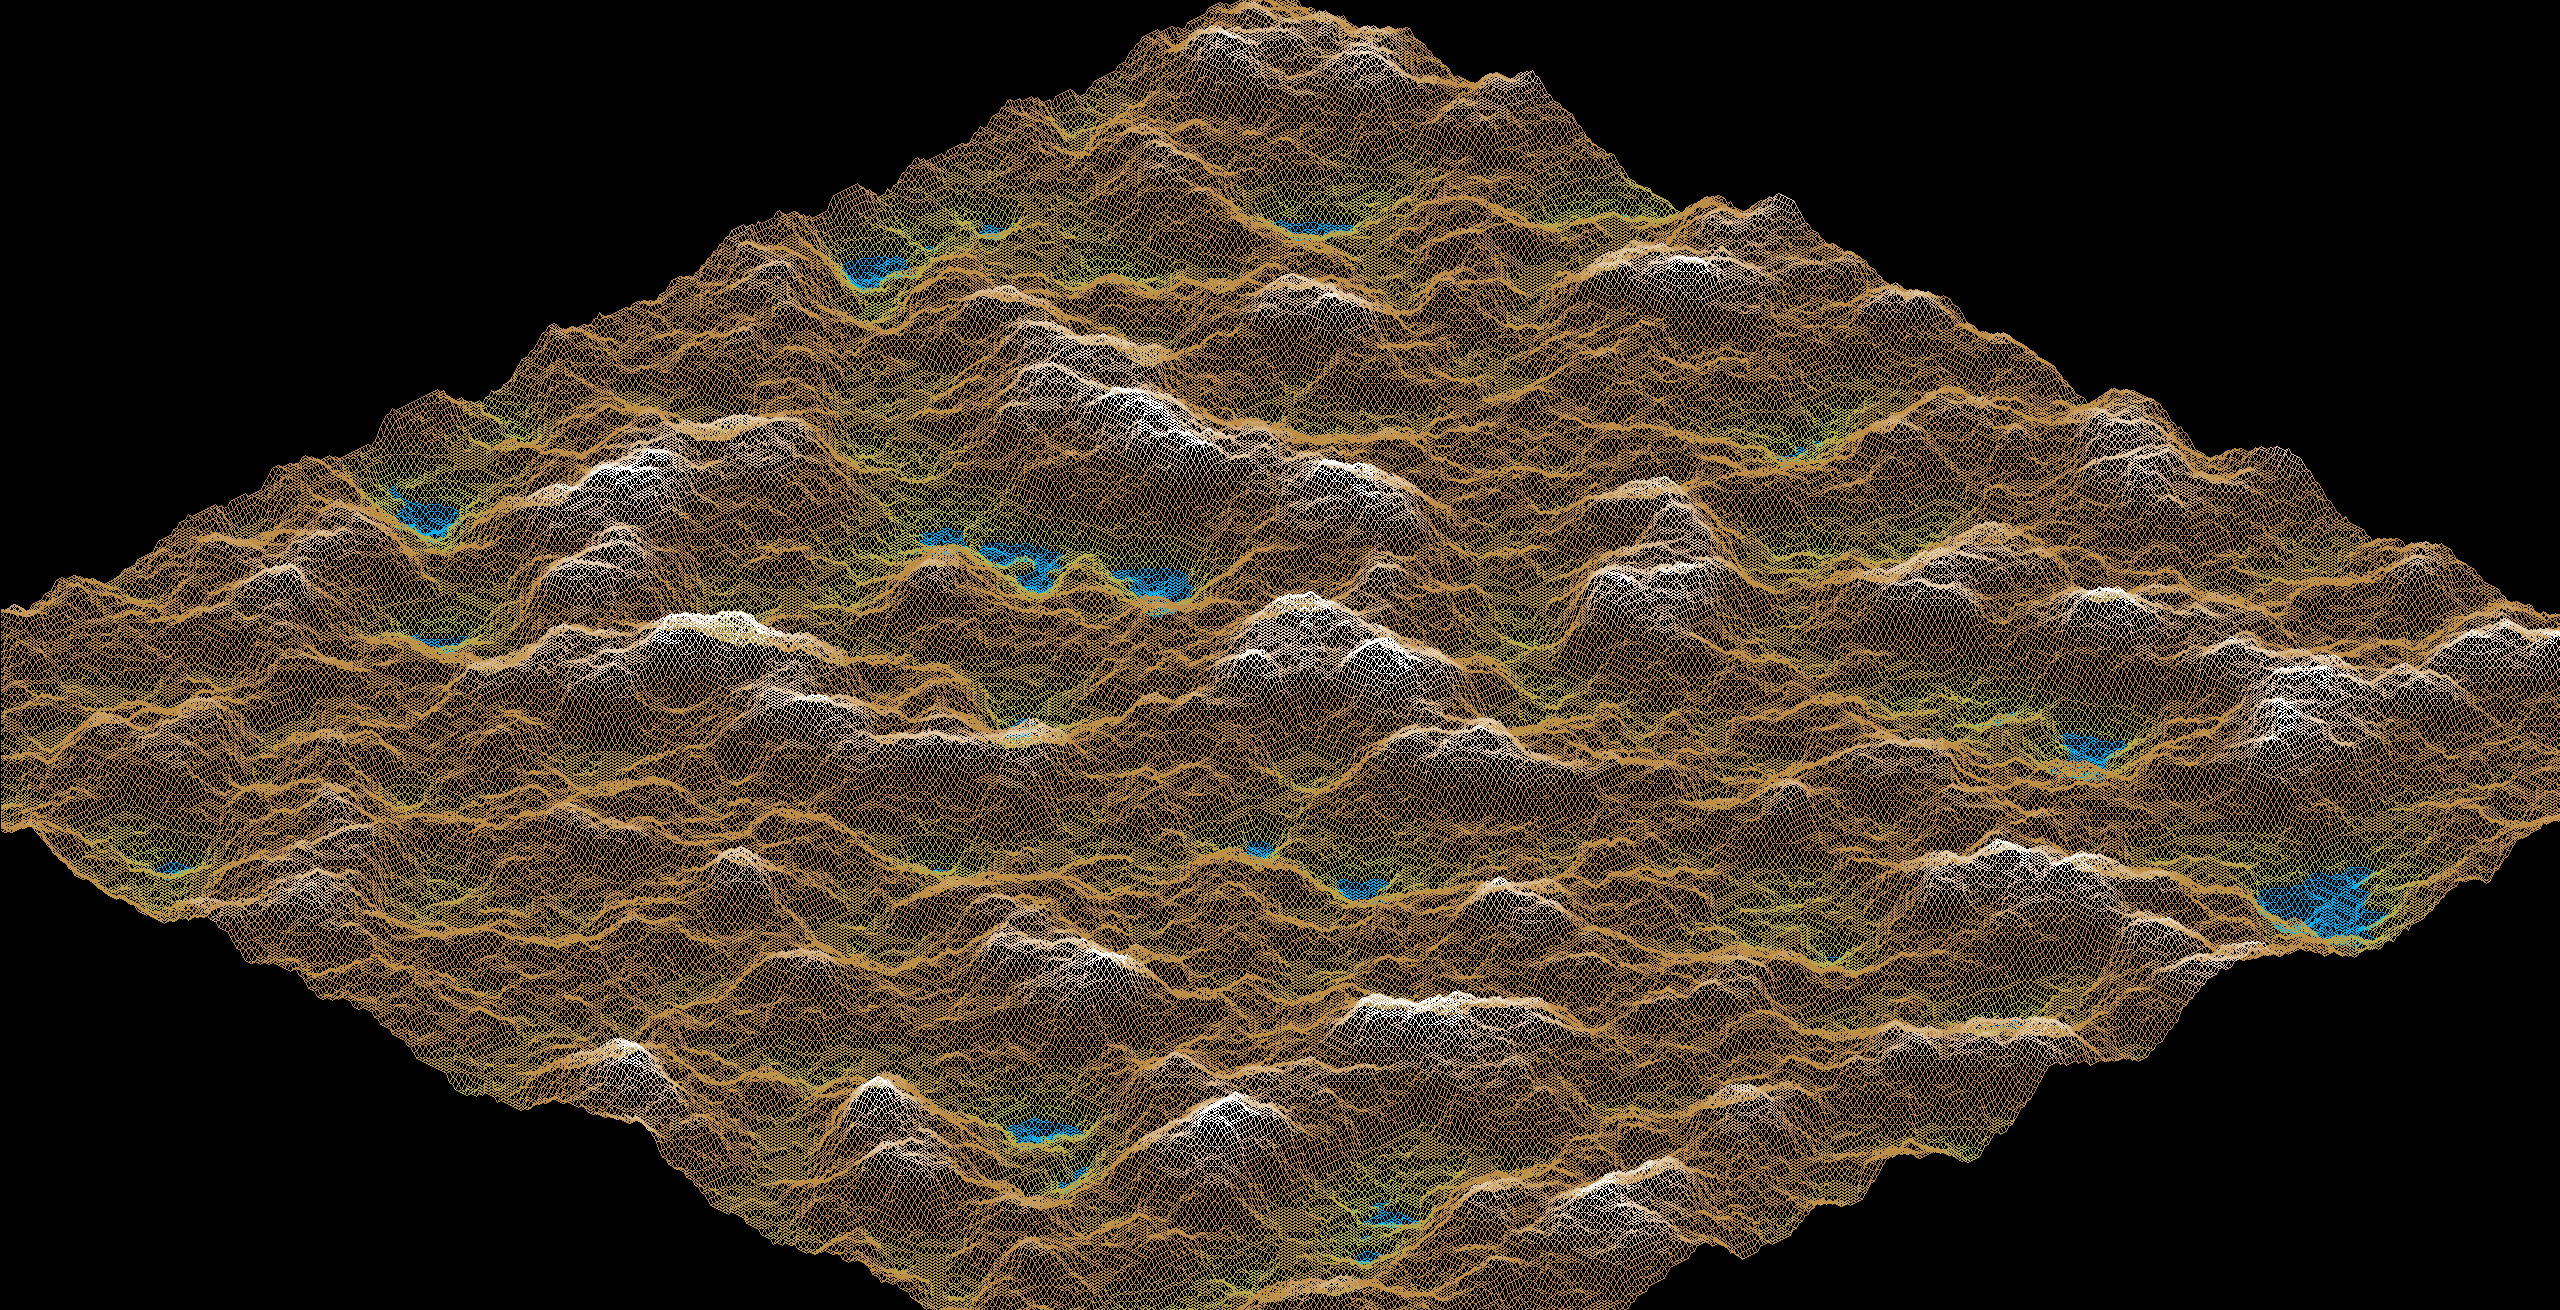
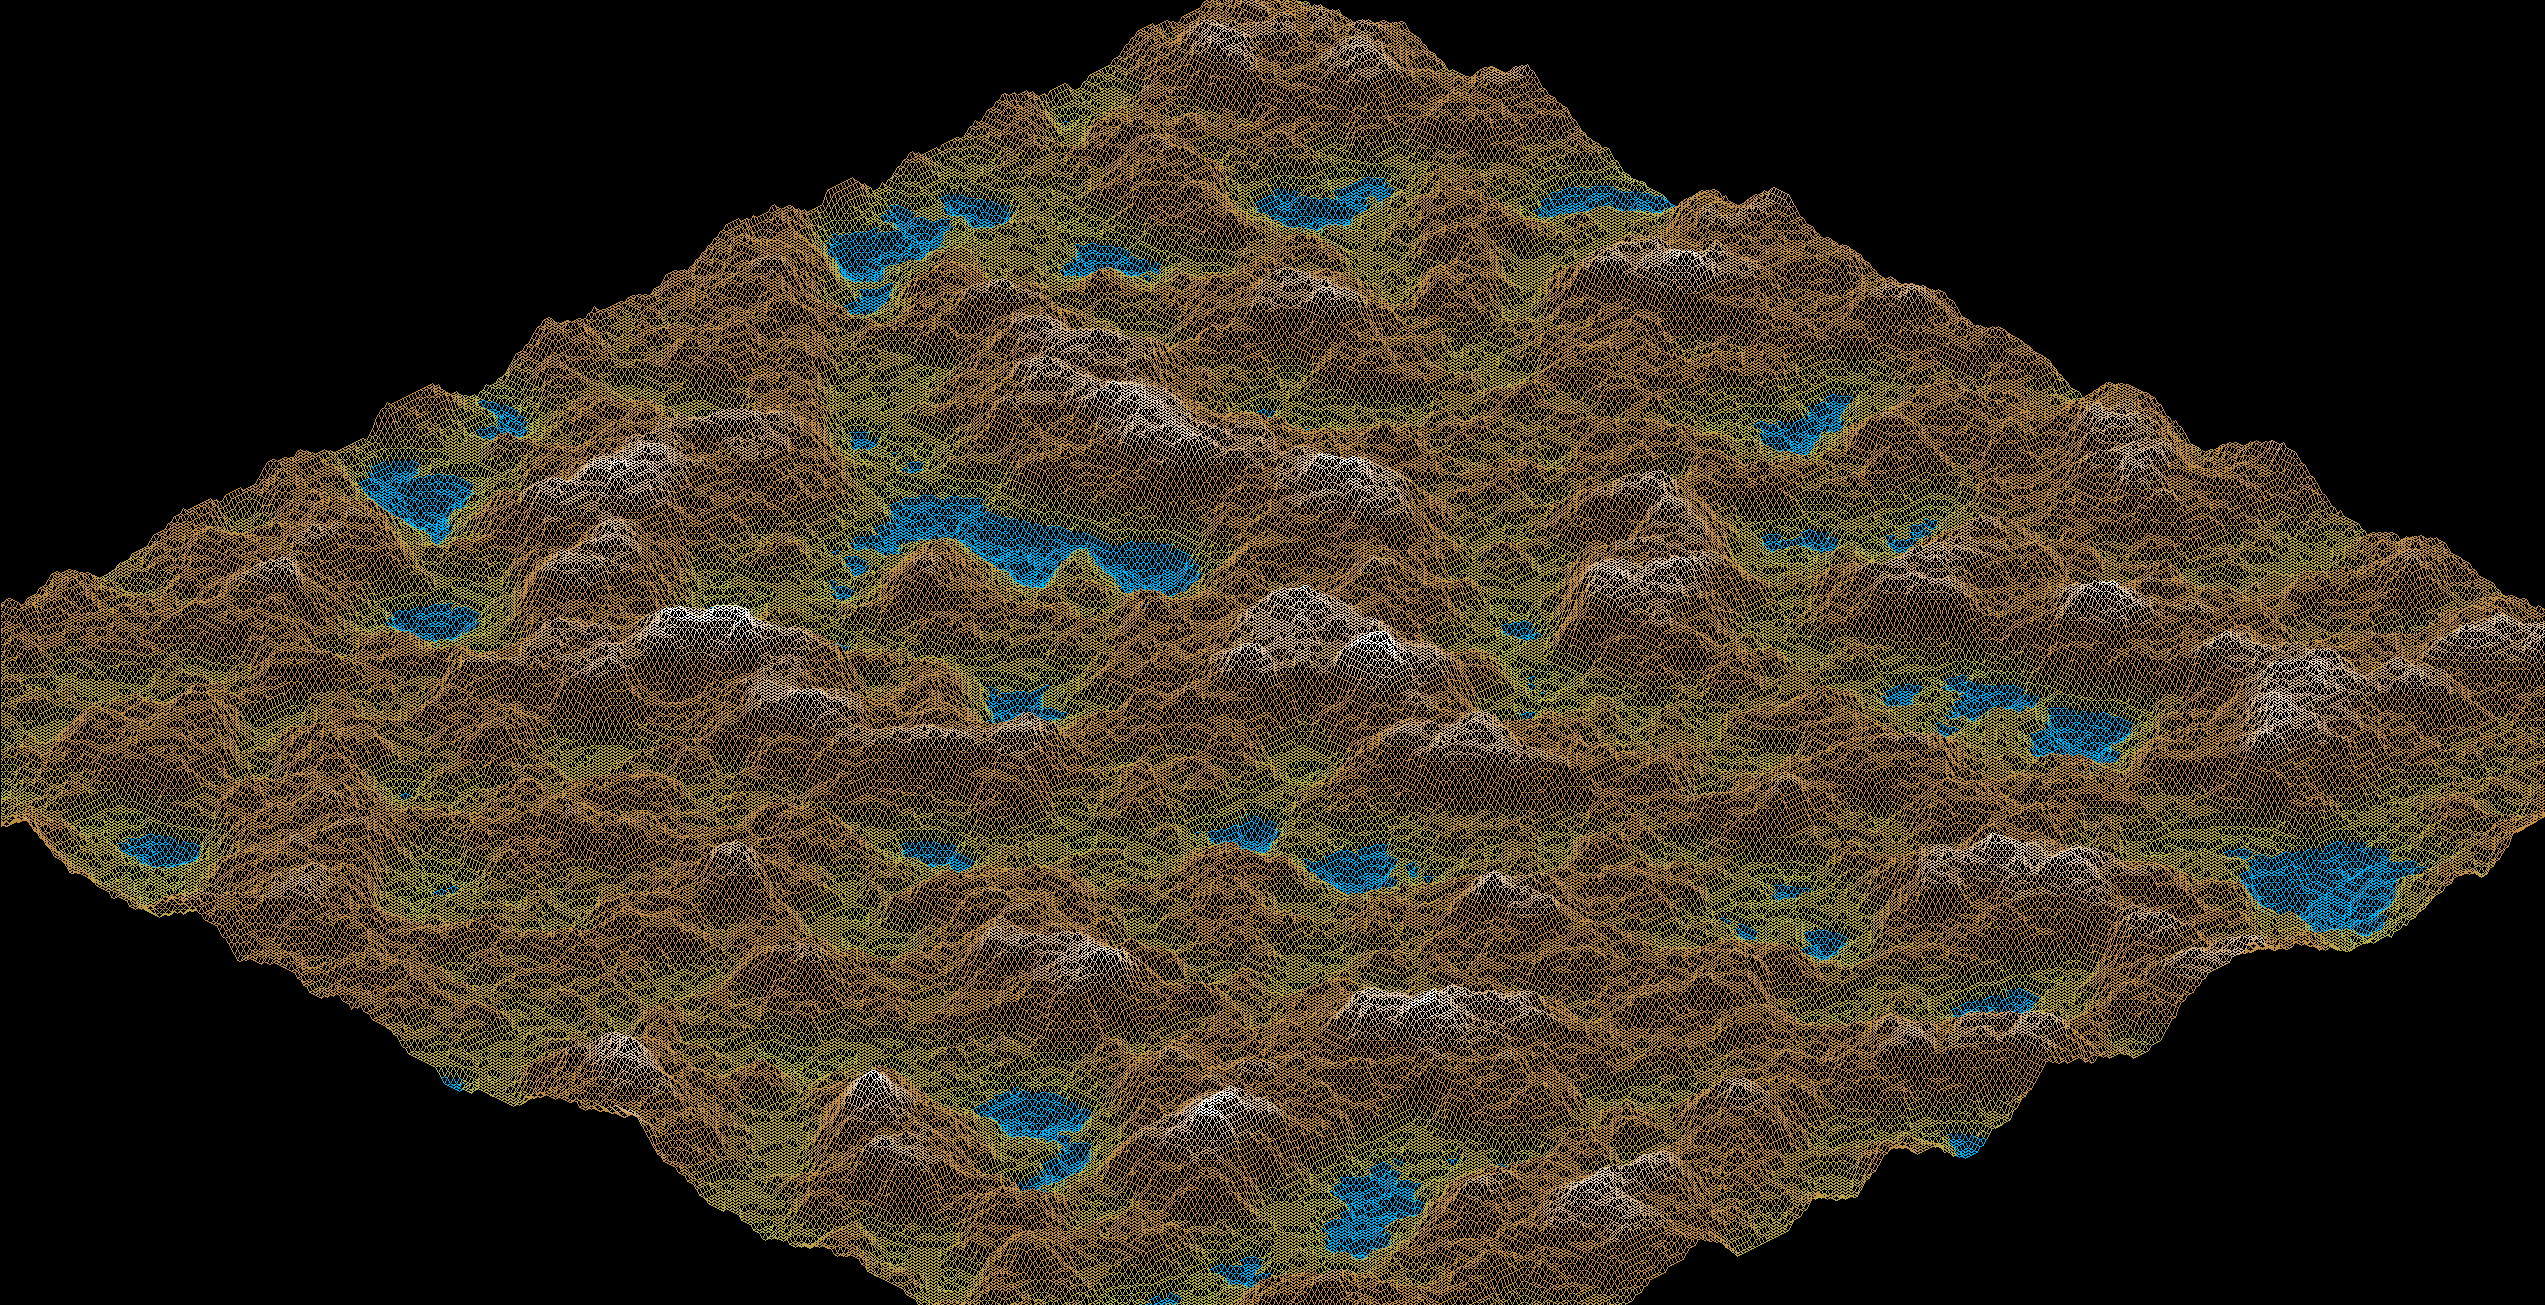
filtre

diff --git a/fdf.c b/fdf.c
@@ -124,7 +124,7 @@ void draw_map_fill_2(t_all *all)
 
 					p3 = moy2(all, x, y);
 					ft_fill(all->img, p3,
-						ft_int_to_color(all->palette[c1]));/*
+						ft_int_to_color(0x000001));/*
 					p3 = ft_3d_to_2d(warp(all, all->map.tab[x][y]));
 					p3.y++;
 					ft_fill(all->img, p3,
